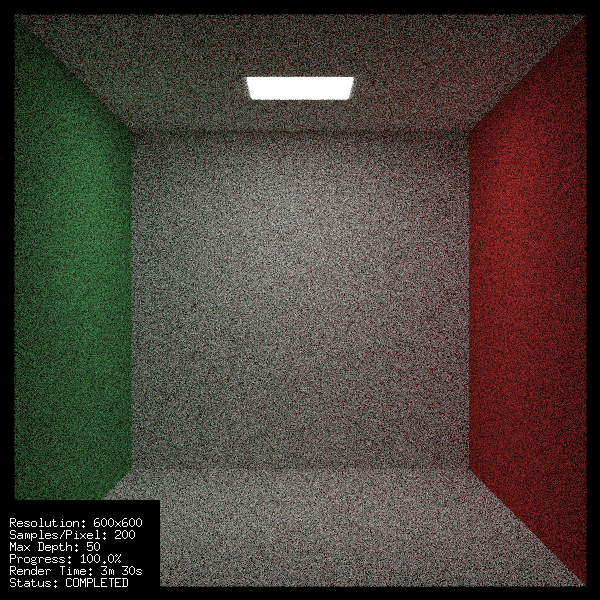
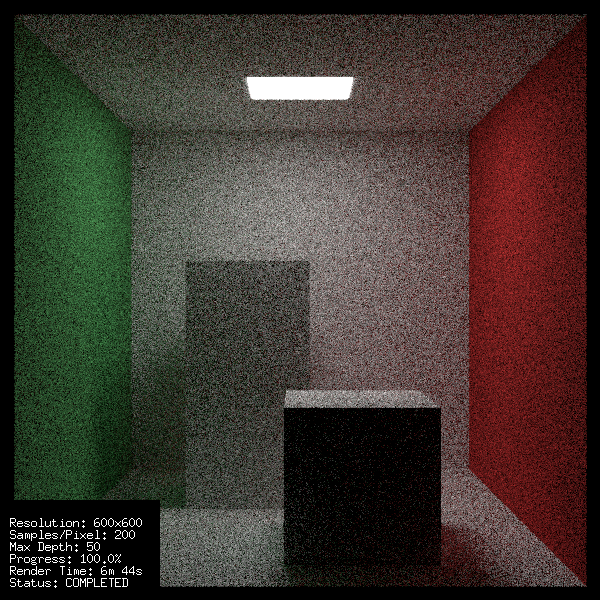
Add Box function and integrate boxes into Cornell Box scene

diff --git a/rt/quad.go b/rt/quad.go
@@ -82,3 +82,37 @@ func (q *Quad) isInterior(a, b float64, rec *HitRecord) bool {
 	rec.V = b
 	return true
 }
+
+func Box(a, b Point3, mat Material) Hittable {
+	sides := NewHittableList()
+
+	min := Point3{
+		X: math.Min(a.X, b.X),
+		Y: math.Min(a.Y, b.Y),
+		Z: math.Min(a.Z, b.Z),
+	}
+	max := Point3{
+		X: math.Max(a.X, b.X),
+		Y: math.Max(a.Y, b.Y),
+		Z: math.Max(a.Z, b.Z),
+	}
+
+	dx := Vec3{X: max.X - min.X, Y: 0, Z: 0}
+	dy := Vec3{X: 0, Y: max.Y - min.Y, Z: 0}
+	dz := Vec3{X: 0, Y: 0, Z: max.Z - min.Z}
+
+	// Front face
+	sides.Add(NewQuad(Point3{X: min.X, Y: min.Y, Z: max.Z}, dx, dy, mat))
+	// Right face
+	sides.Add(NewQuad(Point3{X: max.X, Y: min.Y, Z: max.Z}, dz.Neg(), dy, mat))
+	// Back face
+	sides.Add(NewQuad(Point3{X: max.X, Y: min.Y, Z: min.Z}, dx.Neg(), dy, mat))
+	// Left face
+	sides.Add(NewQuad(Point3{X: min.X, Y: min.Y, Z: min.Z}, dz, dy, mat))
+	// Top face
+	sides.Add(NewQuad(Point3{X: min.X, Y: max.Y, Z: max.Z}, dx, dz.Neg(), mat))
+	// Bottom face
+	sides.Add(NewQuad(Point3{X: min.X, Y: min.Y, Z: min.Z}, dx, dz, mat))
+
+	return sides
+}

diff --git a/rt/scenes.go b/rt/scenes.go
@@ -443,6 +443,18 @@ func CornellBoxScene() *HittableList {
 		whiteMat,
 	))
 
+	world.Add(Box(
+		Point3{X: 130, Y: 0, Z: 65},
+		Point3{X: 295, Y: 165, Z: 230},
+		whiteMat,
+	))
+
+	world.Add(Box(
+		Point3{X: 265, Y: 0, Z: 295},
+		Point3{X: 430, Y: 330, Z: 460},
+		whiteMat,
+	))
+
 	return world
 }
 
